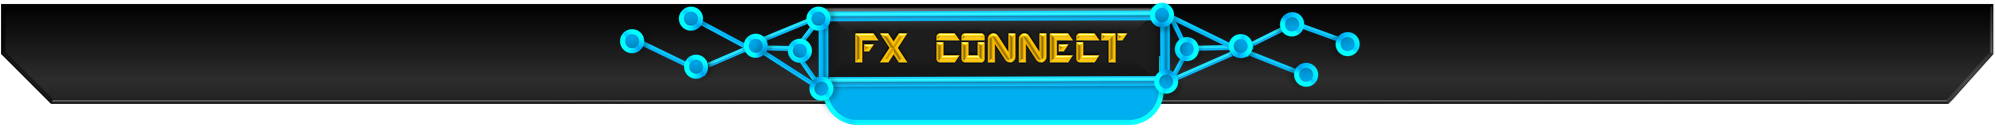
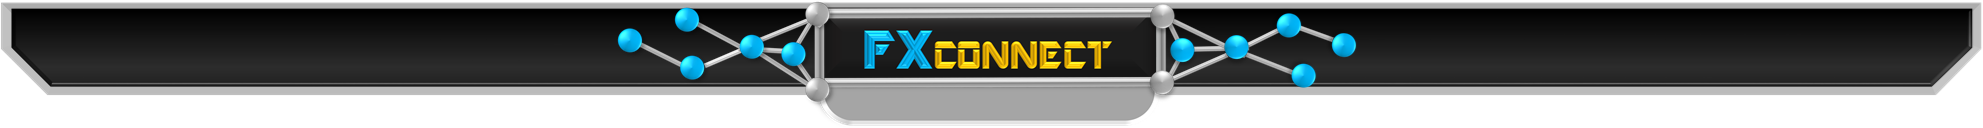
update

diff --git a/Personal JavaFX Snake/src/com/EudyContreras/Snake/Utilities/GradientAnimator.java b/Personal JavaFX Snake/src/com/EudyContreras/Snake/Utilities/GradientAnimator.java
@@ -3,7 +3,6 @@ package com.EudyContreras.Snake.Utilities;
 import java.util.Random;
 
 import com.EudyContreras.Snake.ThreadManagers.ThreadManager;
-import com.EudyContreras.Snake.Utilities.ShapeUtility.Shape;
 
 import javafx.application.Platform;
 import javafx.scene.Node;
@@ -14,10 +13,10 @@ import javafx.util.Duration;
 
 public class GradientAnimator {
 
-	private int changeOne;
-	private int changeTwo;
-	private int valueOne;
-	private int valueTwo;
+	private int minValue;
+	private int maxValue;
+	private int[] offset;
+	private int[] value;
 	private volatile boolean running;
 	private Rectangle rect;
 	private Circle circle;
@@ -30,35 +29,44 @@ public class GradientAnimator {
 
 	public GradientAnimator(Node node, Duration duration){
 		this.rand = new Random();
+		this.value = new int[3];
+		this.offset = new int[3];
 		this.setNode(node);
 		this.resetAnim();
 	}
 
-	private void resetAnim(){
-		this.changeOne = 1;
-		this.changeTwo = 1;
-		this.valueOne =  getRandomRange(100,215);
-		this.valueTwo =  getRandomRange(100,215);
-	}
-
 	public void setNode(Node node){
+
+		Color[] colors = new Color[value.length];
+
+		for(int i = 0; i<colors.length; i++){
+			colors[i] = getColor(value[i]);
+		}
+
 		if(node instanceof Circle){
 			circle = ((Circle)(node));
-			circle.setFill(ShapeUtility.LINEAR_GRADIENT(getColor(valueOne),getColor(valueTwo)));
+			circle.setFill(ShapeUtility.LINEAR_GRADIENT(colors));
 		}
 		if(node instanceof Rectangle){
 			rect = ((Rectangle)(node));
-			rect.setFill(ShapeUtility.LINEAR_GRADIENT(getColor(valueOne),getColor(valueTwo)));
+			rect.setFill(ShapeUtility.LINEAR_GRADIENT(colors));
 		}
 	}
 
 	private void colorAnimation(){
 		clampColors();
+
+		Color[] colors = new Color[value.length];
+
+		for(int i = 0; i<colors.length; i++){
+			colors[i] = getColor(value[i]);
+		}
+
 		if(rect!=null){
-			rect.setFill(ShapeUtility.LINEAR_GRADIENT(getColor(valueOne),getColor(valueTwo)));
+			rect.setFill(ShapeUtility.LINEAR_GRADIENT(colors));
 		}
 		else{
-			circle.setFill(ShapeUtility.LINEAR_GRADIENT(getColor(valueOne),getColor(valueTwo)));
+			circle.setFill(ShapeUtility.LINEAR_GRADIENT(colors));
 		}
 	}
 
@@ -71,22 +79,24 @@ public class GradientAnimator {
 	}
 
 	private void clampColors(){
-		valueOne+=changeOne;
-		if(valueOne>215){
-			valueOne = 215;
-			changeOne = -1;
-		}if(valueOne<100){
-			valueOne = 100;
-			changeOne = 1;
+		for(int i = 0; i<value.length; i++){
+			value[i]+=offset[i];
+			if(value[i]>maxValue){
+				value[i] = maxValue;
+				offset[i] = -1;
+			}if(value[i]<minValue){
+				value[i] = minValue;
+				offset[i] = 1;
+			}
 		}
+	}
 
-		valueTwo+=changeTwo;
-		if(valueTwo>215){
-			valueTwo = 215;
-			changeTwo = -1;
-		}if(valueTwo<100){
-			valueTwo = 100;
-			changeTwo = 1;
+	private void resetAnim(){
+		this.minValue = 50;
+		this.maxValue = 215;
+		for(int i = 0; i<value.length; i++){
+			value[i] = getRandomRange(minValue,maxValue);
+			offset[i] = 1;
 		}
 	}
 
@@ -102,7 +112,7 @@ public class GradientAnimator {
 							colorAnimation();
 						});
 						try {
-							Thread.sleep(26);
+							Thread.sleep(80);
 						} catch (InterruptedException e) {
 							e.printStackTrace();
 						}

diff --git a/Personal JavaFX Snake/src/com/EudyContreras/Snake/UserInterface/MenuManager.java b/Personal JavaFX Snake/src/com/EudyContreras/Snake/UserInterface/MenuManager.java
@@ -32,8 +32,8 @@ public class MenuManager extends AbstractMenuElement{
 	private BoxBlur focus = new BoxBlur();
 	private ConnectHub connectHub;
 	private MediaPlayer music;
-	private MainMenu main_menu;
-	private ModesMenu modes_menu;
+	private MenuMain main_menu;
+	private MenuModes modes_menu;
 
 	public MenuManager(GameManager game) {
 		this.game = game;
@@ -104,8 +104,8 @@ public class MenuManager extends AbstractMenuElement{
 	}
 
 	public void setUpMenus(){
-		main_menu = new MainMenu(game,this);
-		modes_menu = new ModesMenu(game, this);
+		main_menu = new MenuMain(game,this);
+		modes_menu = new MenuModes(game, this);
 	}
 
 	public void setUpBackground(){

diff --git a/Personal JavaFX Snake/src/com/EudyContreras/Snake/UserInterface/MenuModes.java b/Personal JavaFX Snake/src/com/EudyContreras/Snake/UserInterface/MenuModes.java
@@ -10,12 +10,12 @@ import javafx.geometry.Pos;
 import javafx.scene.layout.Pane;
 import javafx.scene.paint.Color;
 
-public class ModesMenu extends AbstractMenuElement {
+public class MenuModes extends AbstractMenuElement {
 
 	private final static Pane GAME_MODE_MENU = new Pane();
 	private final static CustomMenuBox MODES_MENU_BOX = new CustomMenuBox(1200, 700, 30, Color.BLACK,Pos.CENTER);
 
-	public ModesMenu(GameManager game, MenuManager menu) {
+	public MenuModes(GameManager game, MenuManager menu) {
 		this.game = game;
 		this.menu = menu;
 		this.setUp();

diff --git a/Personal JavaFX Snake/src/com/EudyContreras/Snake/UserInterface/MenuMain.java b/Personal JavaFX Snake/src/com/EudyContreras/Snake/UserInterface/MenuMain.java
@@ -9,12 +9,12 @@ import javafx.geometry.Pos;
 import javafx.scene.layout.Pane;
 import javafx.scene.paint.Color;
 
-public class MainMenu extends AbstractMenuElement {
+public class MenuMain extends AbstractMenuElement {
 
 	private final static Pane MAIN_MENU = new Pane();
 	private final static CustomMenuBox MAIN_MENU_BOX = new CustomMenuBox(1200, 700, 30, Color.BLACK, Pos.CENTER);
 
-	public MainMenu(GameManager game, MenuManager menu) {
+	public MenuMain(GameManager game, MenuManager menu) {
 		this.game = game;
 		this.menu = menu;
 		this.setUp();

diff --git a/Personal JavaFX Snake/src/com/EudyContreras/Snake/ImageBanks/GameImageBank.java b/Personal JavaFX Snake/src/com/EudyContreras/Snake/ImageBanks/GameImageBank.java
@@ -185,7 +185,7 @@ import javafx.scene.shape.Circle;
 			public static final Image transparentFill = ImageEffectUtility.preCreateCircle(Color.GREEN, GameSettings.PLAYER_ONE_SIZE*.75);
 
 
-			public static final Image play_room_hub_bar = new Image(ImageLoadingUtility.loadResource("connect_hub_alt.png"));
+			public static final Image play_room_hub_bar = new Image(ImageLoadingUtility.loadResource("connect_hub.png"));
 
 
 			/////////////////////////////////////////////////////////////////////////////////////////////////////////////////////////////

diff --git a/Personal JavaFX Snake/src/com/EudyContreras/Snake/PlayRoomHub/ConnectHub.java b/Personal JavaFX Snake/src/com/EudyContreras/Snake/PlayRoomHub/ConnectHub.java
@@ -82,11 +82,11 @@ public class ConnectHub {
 	}
 
 	private void initFrame(){
-		this.frame.setWidth(1200);
-		this.frame.setHeight(900);
+		this.frame.setWidth(GameSettings.WIDTH-90);
+		this.frame.setHeight(GameSettings.HEIGHT-100);
 		this.frame.setStyle(MenuButtonStyles.FX_CONNECT_BOX_STYLE);
 		this.frame.setStroke(Color.rgb(215, 215, 215));
-		this.frame.setStrokeWidth(15);
+		this.frame.setStrokeWidth(7);
 		this.frame.setFill(Color.BLACK);
 		this.frame.setArcHeight(50);
 		this.frame.setArcWidth(50);
